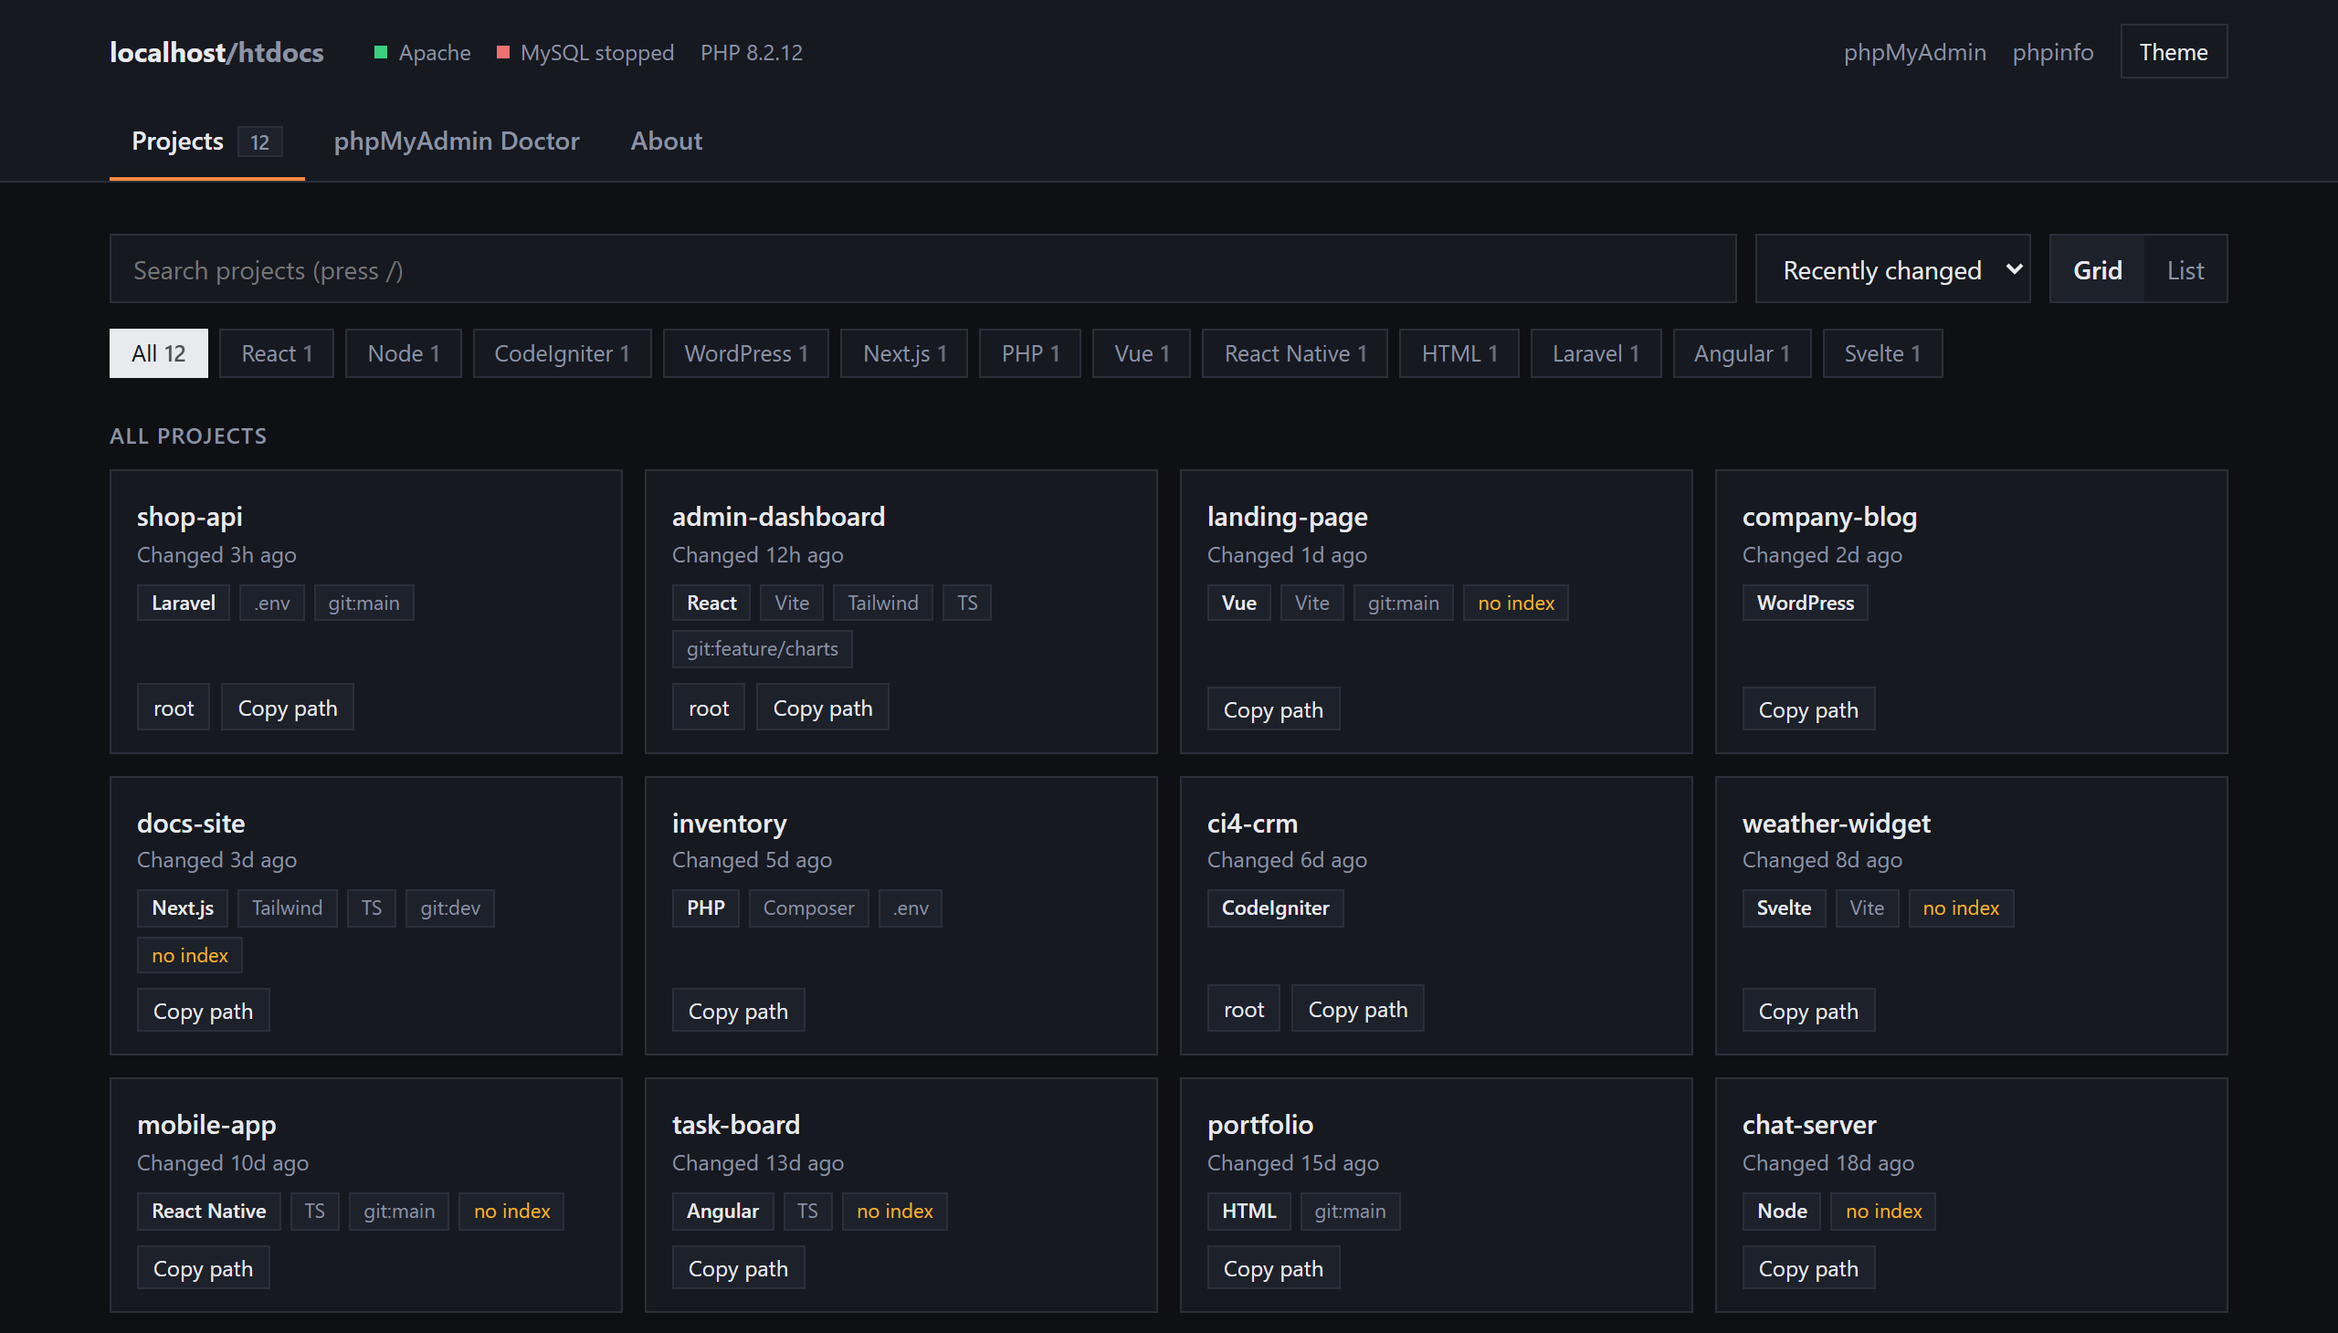
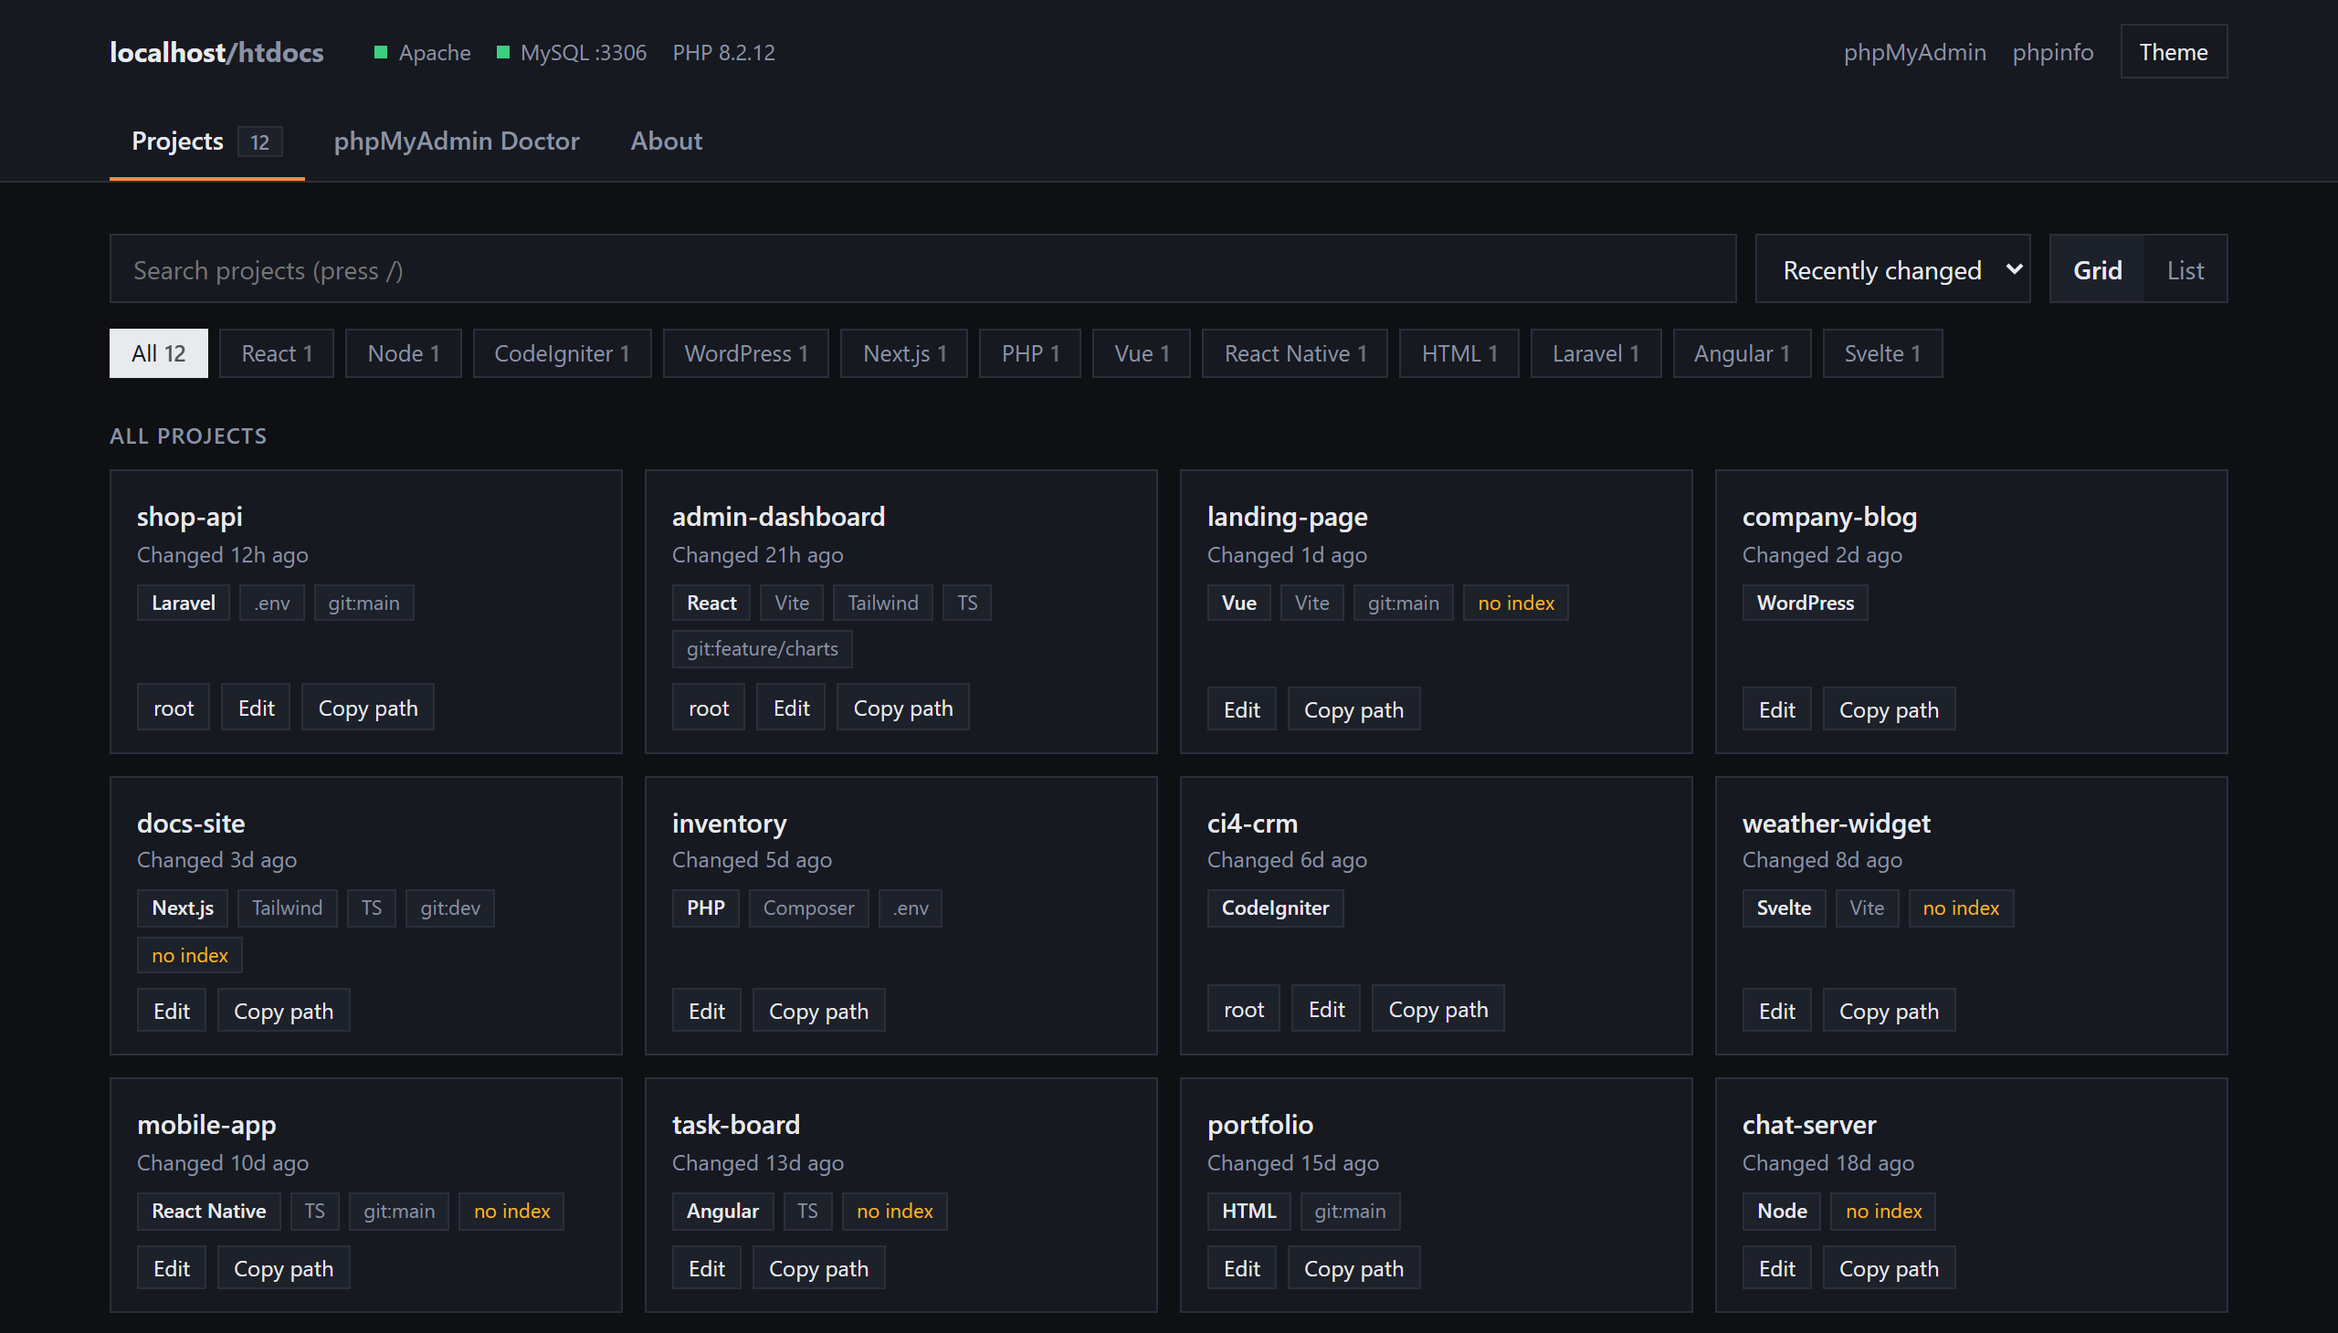
Add Edit button that opens a project in a detected code editor

diff --git a/assets/app.js b/assets/app.js
@@ -57,6 +57,7 @@
   let filter = store.get('filter', 'All');
   let view = store.get('view', 'grid');
   let pins = new Set(store.get('pins', []));
+  let editors = {};  // id => { name, exe }, detected on the server
   $('#sort').value = store.get('sort', 'recent');
   $('#show-system').checked = store.get('system', false);
 
@@ -88,6 +89,7 @@
       <div class="proj-meta">${tags}</div>
       <div class="proj-actions">
         ${p.entry ? `<a href="${esc(p.url)}" target="_blank" rel="noopener" title="Folder root">root</a>` : ''}
+        ${Object.keys(editors).length ? `<button data-edit="${esc(p.name)}" title="Open in a code editor">Edit</button>` : ''}
         <button data-copy="${esc(p.path)}" title="Copy folder path">Copy path</button>
       </div>
       <button class="pin ${pins.has(p.name) ? 'on' : ''}" data-pin="${esc(p.name)}" title="Pin">${pins.has(p.name) ? 'Unpin' : 'Pin'}</button>
@@ -141,14 +143,44 @@
     }
   }
 
+  // Editors only open on this computer, so they're only offered on localhost.
+  async function loadEditors() {
+    if (!XL.local) return;
+    try { editors = (await api('editors')).editors; } catch (e) { return; }
+    renderProjects();
+  }
+
+  const MARK = { vscode: 'VS', cursor: 'Cu', windsurf: 'Ws', antigravity: 'Ag', kiro: 'Ki', trae: 'Tr', vscodium: 'Vc', insiders: 'VI',
+    phpstorm: 'PS', webstorm: 'WS', idea: 'IJ', zed: 'Ze', sublime: 'ST', notepadpp: 'N++' };
+
+  function pickEditor(project) {
+    const d = $('#editor-modal');
+    const last = store.get('editor', null);
+    $('#editor-title').textContent = `Open ${project} in…`;
+    $('#editor-list').innerHTML = Object.entries(editors).map(([id, e]) =>
+      `<button class="editor-item ${id === last ? 'last' : ''}" value="${esc(id)}">
+        <span class="editor-mark">${esc(MARK[id] || e.name.slice(0, 2))}</span>
+        <span class="editor-info"><span class="editor-name">${esc(e.name)}</span><span class="editor-path" title="${esc(e.exe)}">${esc(e.exe)}</span></span>
+        ${id === last ? '<span class="tag">Last used</span>' : ''}
+      </button>`).join('');
+    d.returnValue = '';
+    d.onclose = () => {
+      const id = d.returnValue;
+      if (!editors[id]) return;
+      store.set('editor', id);
+      api('open_editor', { editor: id, project }).then((r) => toast(r.message), (err) => toast(err.message, true));
+    };
+    d.showModal();
+    ($('#editor-list .last') || $('#editor-list .editor-item'))?.focus();
+  }
+
   // Any change to what's listed starts again from the first page.
   const rerender = () => { shown = PAGE; renderProjects(); };
   $('#more-btn').onclick = () => { shown += PAGE; renderProjects(); };
   $('#more-all').onclick = () => { shown = Infinity; renderProjects(); };
   $('#q').oninput = rerender;
   $('#sort').onchange = () => { store.set('sort', $('#sort').value); rerender(); };
-  $('#show-system').onchange = () => { store.set('system', $('#show-system').checked); rerender(); };
-  $('#view').onclick = (e) => { const b = e.target.closest('button'); if (!b) return; view = b.dataset.view; store.set('view', view); renderProjects(); };
+  $('#show-system').onchange = () => { store.set('system', $('#show-system').checked); rerender(); };  $('#view').onclick = (e) => { const b = e.target.closest('button'); if (!b) return; view = b.dataset.view; store.set('view', view); renderProjects(); };
   $('#chips').onclick = (e) => { const c = e.target.closest('.chip'); if (!c) return; filter = c.dataset.type; store.set('filter', filter); rerender(); };
   $('#panel-projects').addEventListener('click', (e) => {
     const pin = e.target.closest('[data-pin]');
@@ -158,6 +190,8 @@
       store.set('pins', [...pins]); renderProjects();
       return;
     }
+    const ed = e.target.closest('[data-edit]');
+    if (ed) { pickEditor(ed.dataset.edit); return; }
     const cp = e.target.closest('[data-copy]');
     if (cp) navigator.clipboard?.writeText(cp.dataset.copy).then(() => toast('Copied ' + cp.dataset.copy), () => toast(cp.dataset.copy));
   });
@@ -401,5 +435,6 @@
   /* ---------------- boot ---------------- */
   loadStatus();
   loadProjects();
+  loadEditors();
   showTab(['#doctor', '#about'].includes(location.hash) ? location.hash.slice(1) : 'projects');
 })();

diff --git a/assets/app.css b/assets/app.css
@@ -228,3 +228,14 @@ kbd { font: 12px ui-monospace, Consolas, monospace; border: 1px solid var(--bord
 .about-table td { padding: 6px 0; overflow-wrap: anywhere; }
 .about-table tr + tr th, .about-table tr + tr td { border-top: 1px solid var(--border); }
 @media (max-width: 760px) { .about { grid-template-columns: 1fr; } }
+
+/* Editor picker */
+.modal.plain { border-color: var(--border); }
+.editor-list { display: flex; flex-direction: column; gap: 6px; margin-bottom: 14px; }
+.editor-item { display: flex; align-items: center; gap: 12px; width: 100%; padding: 10px 12px; text-align: left; background: var(--surface); border: 1px solid var(--border); border-radius: 0; color: var(--text); font: inherit; cursor: pointer; }
+.editor-item:hover, .editor-item:focus-visible { border-color: var(--accent); outline: 0; }
+.editor-mark { flex: none; width: 34px; height: 34px; display: grid; place-items: center; background: var(--surface-2); border: 1px solid var(--border); font-size: 12px; font-weight: 700; }
+.editor-item.last .editor-mark { background: var(--accent); border-color: var(--accent); color: var(--accent-ink); }
+.editor-info { min-width: 0; flex: 1; }
+.editor-name { display: block; font-weight: 600; }
+.editor-path { display: block; font-size: 11.5px; color: var(--muted); overflow: hidden; text-overflow: ellipsis; white-space: nowrap; }

diff --git a/lib/editors.php b/lib/editors.php
@@ -1,0 +1,73 @@
+<?php
+// Finds code editors installed on this computer and opens project folders in them.
+
+/** Known editors, in the order they're offered. Paths are globs; {L} is %LOCALAPPDATA%\Programs, {P} and {X} are Program Files. */
+const EDITORS = [
+    'vscode'   => ['VS Code', ['{L}\Microsoft VS Code\Code.exe', '{P}\Microsoft VS Code\Code.exe']],
+    'cursor'   => ['Cursor', ['{L}\cursor\Cursor.exe', '{P}\Cursor\Cursor.exe']],
+    'windsurf' => ['Windsurf', ['{L}\Windsurf\Windsurf.exe']],
+    'antigravity' => ['Antigravity', ['{L}\Antigravity*\Antigravity*.exe']],
+    'kiro'     => ['Kiro', ['{L}\Kiro\Kiro.exe']],
+    'trae'     => ['Trae', ['{L}\Trae\Trae.exe']],
+    'vscodium' => ['VSCodium', ['{L}\VSCodium\VSCodium.exe', '{P}\VSCodium\VSCodium.exe']],
+    'insiders' => ['VS Code Insiders', ['{L}\Microsoft VS Code Insiders\Code - Insiders.exe', '{P}\Microsoft VS Code Insiders\Code - Insiders.exe']],
+    'phpstorm' => ['PhpStorm', ['{L}\PhpStorm*\bin\phpstorm64.exe', '{P}\JetBrains\PhpStorm*\bin\phpstorm64.exe']],
+    'webstorm' => ['WebStorm', ['{L}\WebStorm*\bin\webstorm64.exe', '{P}\JetBrains\WebStorm*\bin\webstorm64.exe']],
+    'idea'     => ['IntelliJ IDEA', ['{L}\IntelliJ IDEA*\bin\idea64.exe', '{P}\JetBrains\IntelliJ IDEA*\bin\idea64.exe']],
+    'zed'      => ['Zed', ['{L}\Zed\Zed.exe']],
+    'sublime'  => ['Sublime Text', ['{P}\Sublime Text*\sublime_text.exe']],
+    'notepadpp' => ['Notepad++', ['{P}\Notepad++\notepad++.exe', '{X}\Notepad++\notepad++.exe'], '-openFoldersAsWorkspace'],
+];
+
+/** Returns [id => ['name' => ..., 'exe' => ..., 'args' => ...]] for every editor found. */
+function detect_editors(): array
+{
+    if (!IS_WINDOWS) {
+        return [];
+    }
+    $local = getenv('LOCALAPPDATA') ?: (getenv('USERPROFILE') ? getenv('USERPROFILE') . '\AppData\Local' : null);
+    $roots = [
+        '{L}' => $local ? $local . '\Programs' : null,
+        '{P}' => getenv('ProgramFiles') ?: 'C:\Program Files',
+        '{X}' => getenv('ProgramFiles(x86)') ?: 'C:\Program Files (x86)',
+    ];
+
+    $found = [];
+    foreach (EDITORS as $id => $def) {
+        foreach ($def[1] as $pattern) {
+            $root = substr($pattern, 0, 3);
+            if ($roots[$root] === null) continue;
+            $matches = glob($roots[$root] . substr($pattern, 3)) ?: [];
+            // Skip uninstallers matched by wildcards, and prefer the newest version folder.
+            $matches = array_filter($matches, fn($f) => !preg_match('/unins\d*\.exe$/i', $f));
+            natsort($matches);
+            if ($matches) {
+                $found[$id] = ['name' => $def[0], 'exe' => end($matches), 'args' => $def[2] ?? ''];
+                break;
+            }
+        }
+    }
+    return $found;
+}
+
+function open_in_editor(string $editor, string $project): string
+{
+    $editors = detect_editors();
+    if (!isset($editors[$editor])) {
+        throw new RuntimeException('That editor was not found on this computer.');
+    }
+    // Only folders directly in htdocs. % is refused because cmd expands it even inside quotes.
+    $name = basename($project);
+    $path = HTDOCS . DIRECTORY_SEPARATOR . $name;
+    if ($name === '' || $name !== $project || $name[0] === '.' || !is_dir($path)) {
+        throw new RuntimeException('Project not found');
+    }
+    if (strpbrk($path, '%"') !== false) {
+        throw new RuntimeException('Folder names with % can\'t be opened from here.');
+    }
+    $e = $editors[$editor];
+    // Output goes to NUL so the request doesn't wait on the editor. ELECTRON_RUN_AS_NODE is cleared
+    // because Apache started from a VS Code terminal inherits it, and Electron editors then ignore the folder.
+    pclose(popen('set "ELECTRON_RUN_AS_NODE=" & start "" "' . $e['exe'] . '" ' . ($e['args'] ? $e['args'] . ' ' : '') . '"' . $path . '" >NUL 2>&1', 'r'));
+    return 'Opening ' . $name . ' in ' . $e['name'];
+}

diff --git a/index.php b/index.php
@@ -14,7 +14,7 @@ $apacheVersion = preg_match('#Apache/(\S+)#', $_SERVER['SERVER_SOFTWARE'] ?? '',
   <meta name="viewport" content="width=device-width, initial-scale=1">
   <title>localhost</title>
   <link rel="icon" href="/favicon.ico">
-  <link rel="stylesheet" href="assets/app.css?v=7">
+  <link rel="stylesheet" href="assets/app.css?v=9">
   <script>
     try { const t = localStorage.getItem('xl-theme'); if (t) document.documentElement.dataset.theme = t; } catch (e) {}
   </script>
@@ -163,7 +163,7 @@ $apacheVersion = preg_match('#Apache/(\S+)#', $_SERVER['SERVER_SOFTWARE'] ?? '',
           <h3>What it does</h3>
           <dl class="about-list">
             <dt>Projects</dt>
-            <dd>Scans <code><?= htmlspecialchars(HTDOCS) ?></code> and detects what each folder is (PHP, Laravel, React, Node and others), its git branch and when it last changed. Search, filter, sort and pin.</dd>
+            <dd>Scans <code><?= htmlspecialchars(HTDOCS) ?></code> and detects what each folder is (PHP, Laravel, React, Node and others), its git branch and when it last changed. Search, filter, sort, pin, and open a project in your code editor.</dd>
             <dt>phpMyAdmin Doctor</dt>
             <dd>Checks MySQL, the phpMyAdmin config and the page itself, and fixes common problems: wrong password, port mismatch, stopped server, broken config, crashed MySQL data. Config changes are backed up first.</dd>
           </dl>
@@ -221,11 +221,24 @@ $apacheVersion = preg_match('#Apache/(\S+)#', $_SERVER['SERVER_SOFTWARE'] ?? '',
     </form>
   </dialog>
 
-  <script>window.XL = <?= json_encode([
+  <dialog class="modal plain" id="editor-modal" aria-labelledby="editor-title">
+    <form method="dialog">
+      <div class="modal-body">
+        <h2 id="editor-title"></h2>
+        <p class="modal-lead">Editors found on this computer.</p>
+        <div class="editor-list" id="editor-list"></div>
+      </div>
+      <div class="modal-foot">
+        <button class="btn" value="cancel">Cancel</button>
+      </div>
+    </form>
+  </dialog>
+
+  <script>window.XL =<?= json_encode([
       'csrf'    => $token,
       'local'   => $local,
       'paths'   => $local ? ['pmaConfig' => PMA_CONFIG, 'mysqlData' => MYSQL_DATA, 'mysqlBackup' => MYSQL_BACKUP, 'mysqld' => MYSQL_DIR . '\\bin\\mysqld.exe'] : null,
   ], JSON_UNESCAPED_SLASHES) ?>;</script>
-  <script src="assets/app.js?v=7"></script>
+  <script src="assets/app.js?v=9"></script>
 </body>
 </html>

diff --git a/api.php b/api.php
@@ -2,6 +2,7 @@
 require __DIR__ . '/lib/bootstrap.php';
 require __DIR__ . '/lib/projects.php';
 require __DIR__ . '/lib/doctor.php';
+require __DIR__ . '/lib/editors.php';
 
 $action = $_GET['action'] ?? '';
 
@@ -27,11 +28,25 @@ if ($action === 'diagnose') {
     json_out(run_diagnostics());
 }
 
-if ($action === 'fix' && $_SERVER['REQUEST_METHOD'] === 'POST') {
-    $body = json_decode(file_get_contents('php://input'), true) ?: [];
-    if (!hash_equals(csrf_token(), (string) ($_SERVER['HTTP_X_CSRF_TOKEN'] ?? ''))) {
-        json_out(['error' => 'Session expired, reload the page.'], 419);
+if ($action === 'editors') {
+    json_out(['editors' => array_map(fn($e) => ['name' => $e['name'], 'exe' => $e['exe']], detect_editors())]);
+}
+
+$post = $_SERVER['REQUEST_METHOD'] === 'POST';
+if ($post && !hash_equals(csrf_token(), (string) ($_SERVER['HTTP_X_CSRF_TOKEN'] ?? ''))) {
+    json_out(['error' => 'Session expired, reload the page.'], 419);
+}
+$body = $post ? (json_decode(file_get_contents('php://input'), true) ?: []) : [];
+
+if ($action === 'open_editor' && $post) {
+    try {
+        json_out(['ok' => true, 'message' => open_in_editor((string) ($body['editor'] ?? ''), (string) ($body['project'] ?? ''))]);
+    } catch (Throwable $e) {
+        json_out(['ok' => false, 'error' => $e->getMessage()], 422);
     }
+}
+
+if ($action === 'fix' && $post) {
     @set_time_limit(300);
     try {
         json_out(['ok' => true, 'message' => run_fix((string) ($body['fix'] ?? ''), (array) ($body['params'] ?? []))]);

diff --git a/README.md b/README.md
@@ -34,6 +34,7 @@ Plain PHP, CSS and JavaScript. No build step, no dependencies, works offline.
 - Lists every folder in `htdocs` and detects what it is: PHP, Laravel, CodeIgniter, WordPress, React, React Native, Vue, Angular, Svelte, Next.js, Node, HTML
 - Shows git branch, last change, and tags such as Vite, Tailwind, TypeScript and `.env`
 - Opens Laravel projects at `/public/` and JS projects at their built `dist/` or `build/` folder
+- **Edit** opens a project in your code editor. It lists the editors installed on your PC (VS Code, Cursor, Windsurf, Antigravity, Kiro, Trae, VSCodium, PhpStorm, WebStorm, IntelliJ IDEA, Zed, Sublime Text, Notepad++) and remembers the last one you used
 - Search (`/`), filter by type, sort, grid or list view, pin favourites, copy folder path
 - Lists `.zip` / `.rar` / `.7z` archives sitting in `htdocs`
 
@@ -103,10 +104,11 @@ Make sure Apache is running in the XAMPP Control Panel. You should land on the P
 
 - XAMPP for Windows (tested with PHP 8.2, MariaDB 10.4, phpMyAdmin 5.2)
 - PHP `mysqli` extension (enabled by default in XAMPP)
+- For the editor buttons: start Apache from the XAMPP Control Panel. If Apache runs as a Windows service, editors open in a hidden session and you won't see them.
 
 ## Security
 
-The Doctor reads and edits server config, so it only responds to requests from `localhost`. Fix requests also need a session CSRF token. The project list is visible to anyone who can reach your Apache server, just as `htdocs` already is.
+The Doctor and the editor buttons change things on your PC, so they only respond to requests from `localhost`. Fix requests also need a session CSRF token. The project list is visible to anyone who can reach your Apache server, just as `htdocs` already is.
 
 > [!WARNING]
 > Don't expose XAMPP to the internet.
